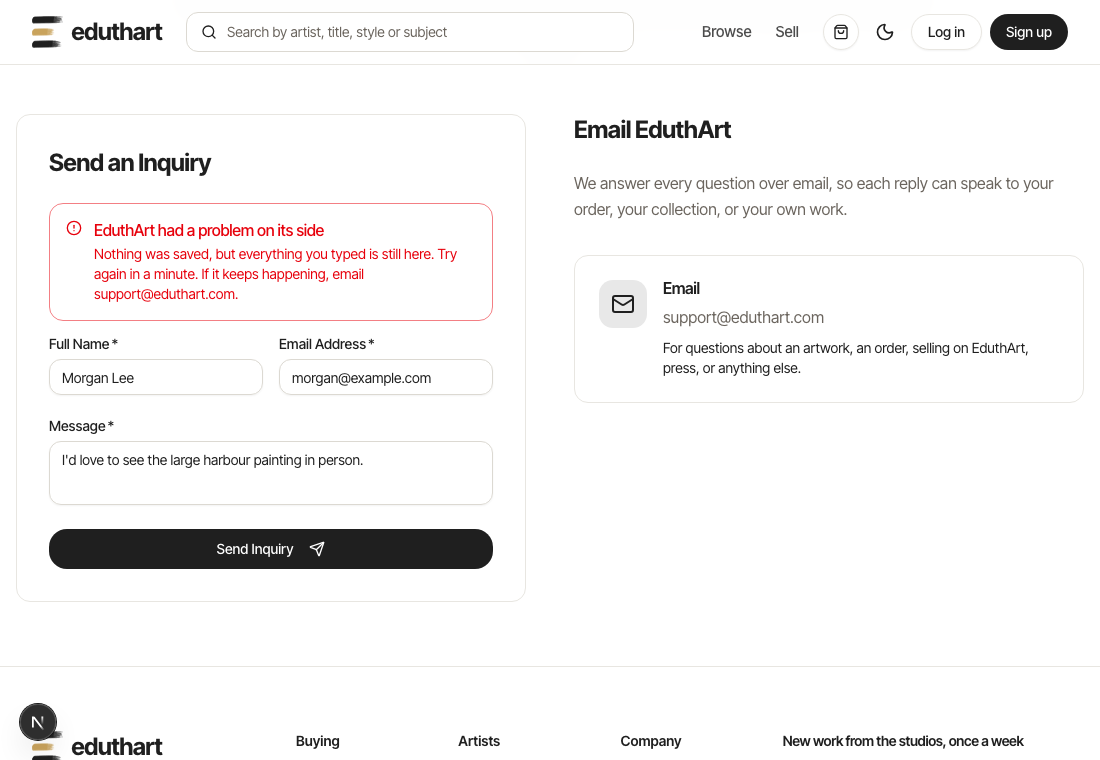
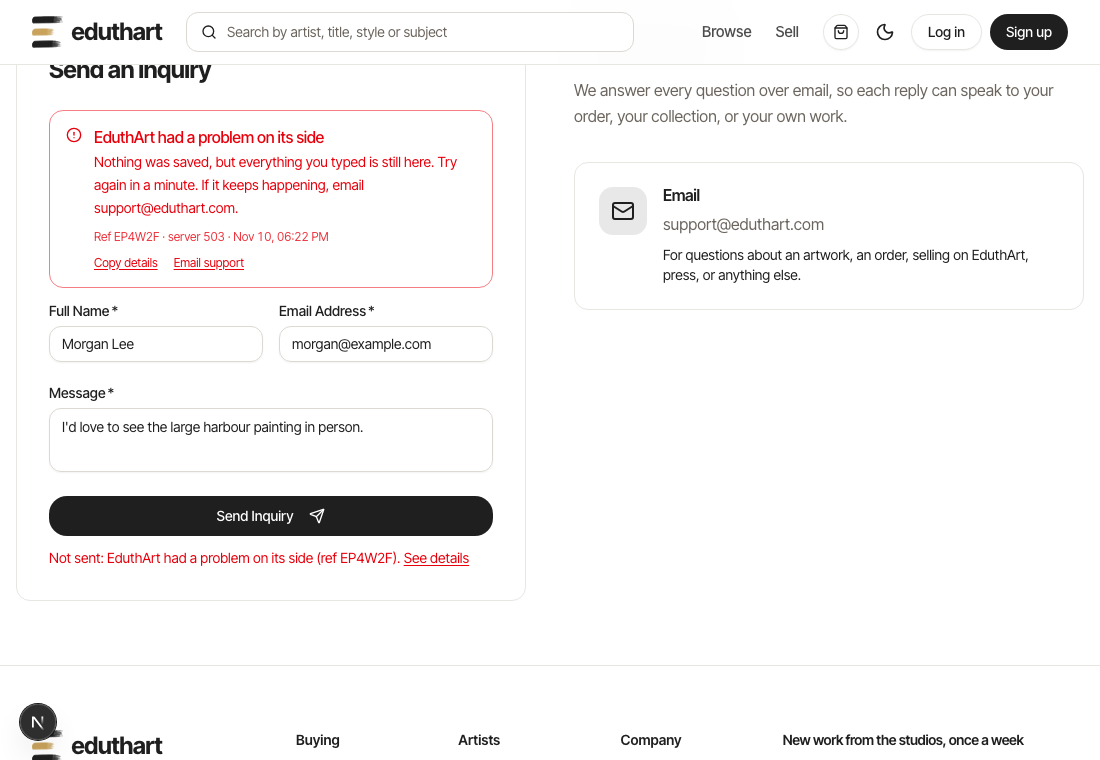
feat(forms): make a failed submit easy to report (EDUTHA-120)
The error callout now shows a short reference, the kind, HTTP status and
time, with 'Copy details' and 'Email support' (support@eduthart.com).
Neither includes anything typed. A 'Not sent ... (ref ...)' line under
the fields repeats it with a link back to the callout, so a screenshot of
a long form's button area is still traceable.

diff --git a/site/src/components/ui/form.tsx b/site/src/components/ui/form.tsx
@@ -212,17 +212,100 @@ function useDescribeSubmitError() {
   );
 }
 
+/**
+ * What a person needs to report a failed submit: the words they saw, plus a
+ * short reference, the time, and what the server said. Never field values.
+ */
+type SubmitErrorReport = SubmitErrorDescription & {
+  reference: string;
+  occurredAt: Date;
+  status: number | null;
+  detail: string | null;
+};
+
 type SubmitErrorContextValue = {
-  error: SubmitErrorDescription | null;
+  error: SubmitErrorReport | null;
+  calloutRef: React.RefObject<HTMLDivElement | null>;
 };
 
 const SubmitErrorContext = React.createContext<SubmitErrorContextValue>({
   error: null,
+  calloutRef: { current: null },
 });
+
+/** Six characters someone can read out or type into an email. */
+function newReference() {
+  const alphabet = "ABCDEFGHJKLMNPQRSTUVWXYZ23456789";
+  let reference = "";
+  for (let index = 0; index < 6; index += 1) {
+    reference += alphabet[Math.floor(Math.random() * alphabet.length)];
+  }
+  return reference;
+}
+
+function technicalDetail(error: unknown): string | null {
+  if (error instanceof ApiError) {
+    return (
+      [error.code, error.readable ? error.message : "unreadable response"]
+        .filter(Boolean)
+        .join(": ") || null
+    );
+  }
+
+  if (error && typeof error === "object") {
+    const { code, message, name } = error as {
+      code?: unknown;
+      message?: unknown;
+      name?: unknown;
+    };
+    return (
+      [name, code, message]
+        .filter((part) => typeof part === "string" && part.length > 0)
+        .join(": ") || null
+    );
+  }
+
+  return null;
+}
+
+function formatTime(date: Date) {
+  return date.toLocaleString(undefined, {
+    day: "numeric",
+    month: "short",
+    hour: "2-digit",
+    minute: "2-digit",
+  });
+}
+
+/** Plain text for the clipboard or an email: what failed, never what was typed. */
+function reportText(error: SubmitErrorReport) {
+  const lines = [
+    `What failed: ${error.title}`,
+    `Message shown: ${error.message}`,
+    `Reference: ${error.reference} (${error.kind}${error.status ? `, HTTP ${error.status}` : ""})`,
+    error.detail ? `Detail: ${error.detail}` : null,
+    typeof window === "undefined" ? null : `Page: ${window.location.pathname}`,
+    `Time: ${error.occurredAt.toISOString()}`,
+    typeof navigator === "undefined" ? null : `Browser: ${navigator.userAgent}`,
+  ];
+  return lines.filter(Boolean).join("\n");
+}
 
 /** The error callout's contents for the nearest `FormShell`, if any. */
 function useFormSubmitError() {
   return React.useContext(SubmitErrorContext).error;
+}
+
+/** Scroll to and focus the error callout, e.g. from the note by the button. */
+function useShowSubmitError() {
+  const { calloutRef } = React.useContext(SubmitErrorContext);
+  return React.useCallback(() => {
+    calloutRef.current?.scrollIntoView?.({
+      block: "center",
+      behavior: "smooth",
+    });
+    calloutRef.current?.focus({ preventScroll: true });
+  }, [calloutRef]);
 }
 
 /**
@@ -264,7 +347,8 @@ function FormShell<TFieldValues extends FieldValues>({
   formClassName?: string;
   onSubmit: (values: TFieldValues) => Promise<unknown> | unknown;
 }) {
-  const [error, setError] = React.useState<SubmitErrorDescription | null>(null);
+  const [error, setError] = React.useState<SubmitErrorReport | null>(null);
+  const calloutRef = React.useRef<HTMLDivElement>(null);
   const inFlight = React.useRef(false);
   const describe = useDescribeSubmitError();
   const { isSubmitting } = useFormState({ control: form.control });
@@ -294,7 +378,13 @@ function FormShell<TFieldValues extends FieldValues>({
       message: description.message,
       type: description.kind,
     });
-    setError(description);
+    setError({
+      ...description,
+      detail: technicalDetail(submitError),
+      occurredAt: new Date(),
+      reference: newReference(),
+      status: submitError instanceof ApiError ? submitError.status : null,
+    });
   };
 
   const handleSubmit = form.handleSubmit(async (values) => {
@@ -307,7 +397,7 @@ function FormShell<TFieldValues extends FieldValues>({
 
   return (
     <FormProvider {...form}>
-      <SubmitErrorContext.Provider value={{ error }}>
+      <SubmitErrorContext.Provider value={{ calloutRef, error }}>
         <form
           {...props}
           aria-busy={isSubmitting || undefined}
@@ -345,6 +435,7 @@ function FormShell<TFieldValues extends FieldValues>({
           >
             {children}
           </fieldset>
+          <FormErrorNote className="mt-3" />
         </form>
       </SubmitErrorContext.Provider>
     </FormProvider>
@@ -358,20 +449,40 @@ function FormShell<TFieldValues extends FieldValues>({
  */
 function FormErrorCallout({ className }: { className?: string }) {
   const error = useFormSubmitError();
-  const ref = React.useRef<HTMLDivElement>(null);
+  const { calloutRef: ref } = React.useContext(SubmitErrorContext);
+  const { supportEmail } = React.useContext(FormErrorsContext);
+  const [copied, setCopied] = React.useState(false);
 
   React.useEffect(() => {
+    setCopied(false);
+
     if (!error || !ref.current) {
       return;
     }
 
     ref.current.scrollIntoView?.({ block: "nearest", behavior: "smooth" });
     ref.current.focus({ preventScroll: true });
-  }, [error]);
+  }, [error, ref]);
 
   if (!error) {
     return null;
   }
+
+  const copyDetails = async () => {
+    try {
+      await navigator.clipboard.writeText(reportText(error));
+      setCopied(true);
+    } catch {
+      setCopied(false);
+    }
+  };
+
+  // The body carries only what failed and when, never what was typed.
+  const mailto = supportEmail
+    ? `mailto:${supportEmail}?subject=${encodeURIComponent(
+        `Problem submitting a form (ref ${error.reference})`
+      )}&body=${encodeURIComponent(`${reportText(error)}\n\n`)}`
+    : null;
 
   return (
     <Alert
@@ -384,8 +495,62 @@ function FormErrorCallout({ className }: { className?: string }) {
     >
       <AlertCircle aria-hidden="true" className="size-4" />
       <AlertTitle>{error.title}</AlertTitle>
-      <AlertDescription>{error.message}</AlertDescription>
+      <AlertDescription>
+        <p>{error.message}</p>
+        {/* A reference and the time make a screenshot or an email traceable. */}
+        <p
+          className="mt-2 text-xs tabular-nums opacity-80"
+          data-slot="form-error-reference"
+        >
+          Ref {error.reference} · {error.kind}
+          {error.status ? ` ${error.status}` : ""} ·{" "}
+          {formatTime(error.occurredAt)}
+        </p>
+        <div className="mt-2 flex flex-wrap gap-x-4 gap-y-1 text-xs">
+          <button
+            className="cursor-pointer underline underline-offset-2"
+            onClick={() => void copyDetails()}
+            type="button"
+          >
+            {copied ? "Details copied" : "Copy details"}
+          </button>
+          {mailto ? (
+            <a className="underline underline-offset-2" href={mailto}>
+              Email support
+            </a>
+          ) : null}
+        </div>
+      </AlertDescription>
     </Alert>
+  );
+}
+
+/**
+ * One line under the fields, by the submit button, so a screenshot of the
+ * bottom of a long form still shows that it failed and its reference.
+ */
+function FormErrorNote({ className }: { className?: string }) {
+  const error = useFormSubmitError();
+  const showError = useShowSubmitError();
+
+  if (!error) {
+    return null;
+  }
+
+  return (
+    <p
+      className={cn("text-sm text-destructive", className)}
+      data-slot="form-error-note"
+    >
+      Not sent: {error.title} (ref {error.reference}).{" "}
+      <button
+        className="cursor-pointer underline underline-offset-2"
+        onClick={showError}
+        type="button"
+      >
+        See details
+      </button>
+    </p>
   );
 }
 
@@ -424,8 +589,10 @@ export {
   useFormField,
   FormErrorsProvider,
   useFormSubmitError,
+  useShowSubmitError,
   FormShell,
   FormErrorCallout,
+  FormErrorNote,
   SubmitButton,
   Form,
   FormItem,

diff --git a/site/tests/components/form-shell.test.tsx b/site/tests/components/form-shell.test.tsx
@@ -299,6 +299,55 @@ describe("FormShell on an API or network failure", () => {
     );
   });
 
+  it("gives a reference to report, by the button too, and copies details without what was typed", async () => {
+    vi.stubGlobal(
+      "fetch",
+      vi.fn(async () =>
+        Response.json({ error: { message: "Upstream down" } }, { status: 503 })
+      )
+    );
+    render(
+      <TestForm
+        onSubmit={(values) =>
+          requestJson("/api/contact", { method: "POST", body: values })
+        }
+      />
+    );
+
+    const user = await fillIn("Jordan Avery", "jordan@example.com");
+    // After userEvent.setup(), which installs its own clipboard.
+    const writeText = vi.fn<(text: string) => Promise<void>>(async () => {});
+    Object.defineProperty(navigator, "clipboard", {
+      configurable: true,
+      value: { writeText },
+    });
+    await user.click(screen.getByRole("button", { name: "Send" }));
+
+    const callout = await screen.findByRole("alert");
+    const reference = callout
+      .querySelector("[data-slot=form-error-reference]")
+      ?.textContent?.match(/Ref ([A-Z0-9]{6}) · server 503/)?.[1];
+    expect(reference).toBeTruthy();
+
+    const note = document.querySelector("[data-slot=form-error-note]");
+    expect(note?.textContent).toContain(`ref ${reference}`);
+
+    const mail = screen.getByRole("link", { name: "Email support" });
+    expect(mail.getAttribute("href")).toContain("mailto:help@example.com");
+    expect(decodeURIComponent(mail.getAttribute("href") ?? "")).not.toContain(
+      "jordan@example.com"
+    );
+
+    await user.click(screen.getByRole("button", { name: "Copy details" }));
+    expect(writeText).toHaveBeenCalledTimes(1);
+    const copied = writeText.mock.calls[0]?.[0] ?? "";
+    expect(copied).toContain(`Reference: ${reference} (server, HTTP 503)`);
+    expect(copied).toContain("Detail: Upstream down");
+    expect(copied).not.toContain("Jordan Avery");
+    expect(copied).not.toContain("jordan@example.com");
+    expect(screen.getByRole("button", { name: "Details copied" })).toBeTruthy();
+  });
+
   it("clears the callout when the person submits again", async () => {
     const onSubmit = vi
       .fn<(values: Values) => Promise<void>>()
